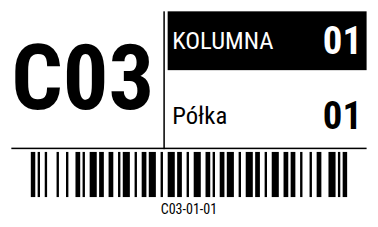
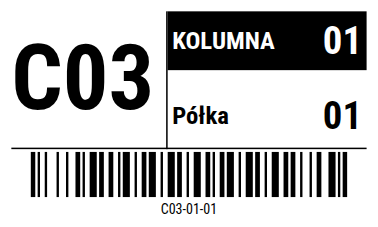
Zetknij linię pionową z paskiem KOLUMNA i pogrub nagłówki
- pionowa linia podziału przylega prawą krawędzią do lewej krawędzi
  czarnego paska KOLUMNA, więc wtapia się w jego tło (bez białej
  przerwy)
- teksty "KOLUMNA" i "Półka" pogrubione w podglądzie — spójnie z
  wydrukiem ZPL, gdzie ^A0 to pogrubiona CG Triumvirate

Claude-Session: https://claude.ai/code/session_016bJKhzy8ZJVzjkuHEiazXJ

Changed region(s): [[0.4074, 0.0617, 0.7275, 0.6476]]

diff --git a/src/components/LabelPreview.tsx b/src/components/LabelPreview.tsx
@@ -65,6 +65,7 @@ export function LabelPreview({ data, config }: { data: LabelData; config: LabelC
             y={L.columnBar.y + L.columnBar.h / 2}
             fontSize={L.columnBar.labelFontMm}
             fontFamily={FONT}
+            fontWeight="bold"
             fill="#fff"
             dominantBaseline="central"
           >
@@ -92,6 +93,7 @@ export function LabelPreview({ data, config }: { data: LabelData; config: LabelC
             y={L.shelfRow.y + L.shelfRow.h / 2}
             fontSize={L.shelfRow.labelFontMm}
             fontFamily={FONT}
+            fontWeight="bold"
             fill="#000"
             dominantBaseline="central"
           >

diff --git a/src/lib/layout.ts b/src/lib/layout.ts
@@ -72,7 +72,9 @@ export function computeLayout(cfg: LabelConfig, data: LabelData): LabelLayout {
     const t = clamp(W * 0.004, 0.3, 0.6);
     const hLineY = gapB > 0 ? topY + topH + gapB / 2 - t / 2 : null;
     if (hasRight) {
-      const vX = pad + leftW + gapMid / 2 - t / 2;
+      // Prawa krawędź linii styka się z lewą krawędzią paska KOLUMNA,
+      // więc linia wtapia się w jego czarne tło.
+      const vX = pad + leftW + gapMid - t;
       const vBottom = hLineY !== null ? hLineY + t : H - pad;
       dividers.push({ x: vX, y: topY, w: t, h: vBottom - topY });
     }
